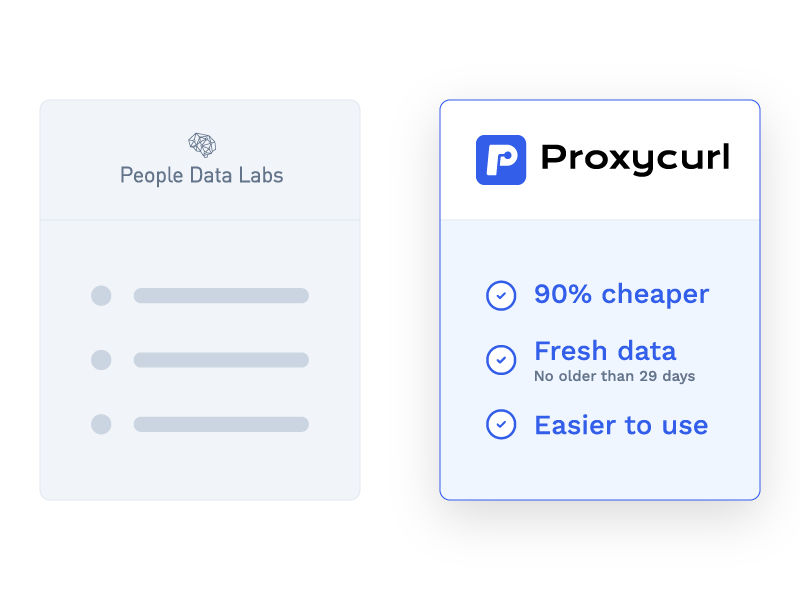
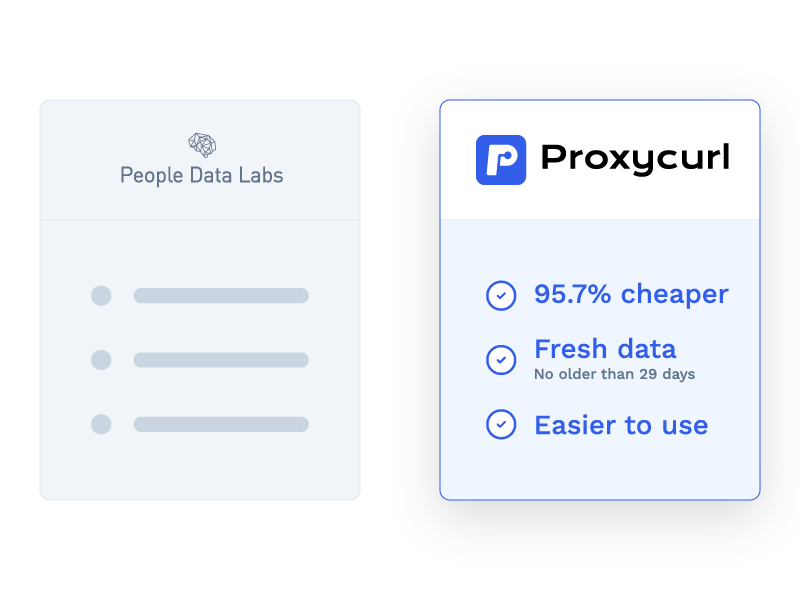
updates

Changed region(s): [[0.6562, 0.57, 0.875, 0.66], [0.6875, 0.45, 0.9062, 0.51]]

diff --git a/solution-PeopleDataLabs.html b/solution-PeopleDataLabs.html
@@ -310,11 +310,15 @@
 
             <!-- Heading -->
             <h1 class="font-weight-bold display-3">
-              PeopleDataLabs is great if you like <span class="text-danger">paying a lot a premium for stale data</span>
+              PeopleDataLabs is great! (<span class="text-danger">if you like paying a lot a premium for stale data</span>)
             </h1>
 
             <p class="text-gray-700 lead">
               Proxycurl is a robust alternative to PDL that is 95.7% cheaper, with fresher data, much is much easier to use.
+            </p>
+
+            <p class="text-success font-weight-bold">
+              Write RegEx instead of ElasticSearch queries
             </p>
 
             <a class="btn btn-primary text-white shadow-light-lg lift mr-md-2 mt-4"data-toggle="modal" data-target="#moreModal">
@@ -388,10 +392,14 @@
                   <div class="col-12 col-md-5">
                     <div class="card border-bottom border-primary shadow-light">
                       <div class="card-body">
-                        <p class="mb-0 font-weight-bold">
-                          <svg class="mr-md-2 mb-1" id="a" width="24" height="24" viewBox="0 0 24 24"><path d="m12,12c-2.7614,0-5-2.2386-5-5s2.2386-5,5-5,5,2.2386,5,5-2.2386,5-5,5ZM3,20v1c0,.5522.4477,1,1,1h16c.5523,0,1-.4478,1-1v-1c0-2.2092-1.7908-4-4-4H7c-2.2092,0-4,1.7908-4,4Z"/></svg>
-                          Proxycurl's Person Profile Endpoint
-                        </p>
+
+                        <a class="text-primary" href="https://nubela.co/proxycurl/docs#people-api-person-profile-endpoint" target="_blank">
+                          <p class="mb-0 font-weight-bold">
+                            <svg class="mr-md-2 mb-1" id="a" width="24" height="24" viewBox="0 0 24 24"><path d="m12,12c-2.7614,0-5-2.2386-5-5s2.2386-5,5-5,5,2.2386,5,5-2.2386,5-5,5ZM3,20v1c0,.5522.4477,1,1,1h16c.5523,0,1-.4478,1-1v-1c0-2.2092-1.7908-4-4-4H7c-2.2092,0-4,1.7908-4,4Z" fill="#335eea"/></svg>
+                            Proxycurl's Person Profile Endpoint
+                          </p>
+                        </a>
+
                       </div>
                     </div>
                   </div>
@@ -429,10 +437,14 @@
                   <div class="col-12 col-md-5">
                     <div class="card border-bottom border-primary shadow-light">
                       <div class="card-body">
-                        <p class="mb-0 font-weight-bold">
-                          <svg class="mr-md-2 mb-1" id="a" width="24" height="24" viewBox="0 0 24 24"><path d="m21.73866,19.21486l-4.11455-4.11449c-.27477-.27477-.35645-.69996-.17301-1.04259.85643-1.5999,1.20428-3.51002.79867-5.52257-.66195-3.28486-3.36137-5.88479-6.6687-6.42334C5.98709,1.20099,1.20127,5.98665,2.1118,11.58047c.53833,3.30733,3.13848,6.00669,6.42329,6.66859,2.0125.40555,3.92262.05793,5.52252-.79834.34263-.18333.76771-.10165,1.04248.17312l4.11494,4.11483c.34846.34846.91347.34846,1.26193-.00006l1.26176-1.26199c.3484-.34846.3484-.91336-.00006-1.26176Zm-11.52932-4.36601c-2.55837,0-4.64012-2.0813-4.64012-4.63967s2.08174-4.64006,4.64012-4.64006,4.64012,2.08174,4.64012,4.64006-2.08174,4.63967-4.64012,4.63967Z"/></svg>
-                          Proxycurl's Person Search Endpooint
-                        </p>
+
+                        <a class="text-primary" href="https://nubela.co/proxycurl/docs#search-api-person-search-endpoint" target="_blank">
+                          <p class="mb-0 font-weight-bold">
+                            <svg class="mr-md-2 mb-1" id="a" width="24" height="24" viewBox="0 0 24 24"><path d="m21.73866,19.21486l-4.11455-4.11449c-.27477-.27477-.35645-.69996-.17301-1.04259.85643-1.5999,1.20428-3.51002.79867-5.52257-.66195-3.28486-3.36137-5.88479-6.6687-6.42334C5.98709,1.20099,1.20127,5.98665,2.1118,11.58047c.53833,3.30733,3.13848,6.00669,6.42329,6.66859,2.0125.40555,3.92262.05793,5.52252-.79834.34263-.18333.76771-.10165,1.04248.17312l4.11494,4.11483c.34846.34846.91347.34846,1.26193-.00006l1.26176-1.26199c.3484-.34846.3484-.91336-.00006-1.26176Zm-11.52932-4.36601c-2.55837,0-4.64012-2.0813-4.64012-4.63967s2.08174-4.64006,4.64012-4.64006,4.64012,2.08174,4.64012,4.64006-2.08174,4.63967-4.64012,4.63967Z" fill="#335eea"/></svg>
+                            Proxycurl's Person Search Endpooint
+                          </p>
+                        </a>
+
                       </div>
                     </div>
                   </div>
@@ -470,18 +482,28 @@
                   <div class="col-12 col-md-5">
                     <div class="card border-bottom border-primary shadow-light">
                       <div class="card-body">
-                        <p class="mb-0 font-weight-bold">
-                          <svg class="mr-md-2 mb-1" id="a" width="24" height="24" viewBox="0 0 24 24"><path d="m22,19V5c0-1.1046-.8954-2-2-2H4c-1.1046,0-2,.8954-2,2v14c0,1.1046.8954,2,2,2h16c1.1046,0,2-.8954,2-2Zm-10-4.3311c-.5342,0-1.0674-.1436-1.543-.4287l-6.457-3.8741v-2.3323l7.4854,4.4915c.3164.1895.7119.1895,1.0303,0l7.4844-4.4915v2.3324l-6.4561,3.8739c-.4766.2852-1.0107.4287-1.5439.4287Z"/></svg>
-                          Reverse Work Email Lookup Endpoint
-                        </p>
-                        <p class="mb-0 font-weight-bold">
-                          <svg class="mr-md-2 mb-1" id="a" width="24" height="24" viewBox="0 0 24 24"><path d="m12,12c-2.7614,0-5-2.2386-5-5s2.2386-5,5-5,5,2.2386,5,5-2.2386,5-5,5ZM3,20v1c0,.5522.4477,1,1,1h16c.5523,0,1-.4478,1-1v-1c0-2.2092-1.7908-4-4-4H7c-2.2092,0-4,1.7908-4,4Z"/></svg>
-                          Person Lookup Endpoint
-                        </p>
-                        <p class="mb-0 font-weight-bold">
-                          <svg class="mr-md-2 mb-1" id="a" width="24" height="24" viewBox="0 0 24 24"><path d="m20,7.5h-2v-2c0-1.6543-1.3457-3-3-3h-6c-1.6543,0-3,1.3457-3,3v2h-2c-1.10455,0-2,.89539-2,2v10c0,1.10455.89545,2,2,2h16c1.10455,0,2-.89545,2-2v-10c0-1.10461-.89545-2-2-2Zm-4,0h-8v-2c0-.55127.44873-1,1-1h6c.55127,0,1,.44873,1,1v2Z"/></svg>
-                          Role Lookup Endpoint
-                        </p>
+
+                        <a class="text-primary" href="https://nubela.co/proxycurl/docs#contact-api-reverse-email-lookup-endpoint" target="_blank">
+                          <p class="mb-0 font-weight-bold">
+                            <svg class="mr-md-2 mb-1" id="a" width="24" height="24" viewBox="0 0 24 24"><path d="m22,19V5c0-1.1046-.8954-2-2-2H4c-1.1046,0-2,.8954-2,2v14c0,1.1046.8954,2,2,2h16c1.1046,0,2-.8954,2-2Zm-10-4.3311c-.5342,0-1.0674-.1436-1.543-.4287l-6.457-3.8741v-2.3323l7.4854,4.4915c.3164.1895.7119.1895,1.0303,0l7.4844-4.4915v2.3324l-6.4561,3.8739c-.4766.2852-1.0107.4287-1.5439.4287Z" fill="#335eea"/></svg>
+                            Reverse Work Email Lookup Endpoint
+                          </p>
+                        </a>
+
+                        <a class="text-primary" href="https://nubela.co/proxycurl/docs#people-api-person-lookup-endpoint" target="_blank">
+                          <p class="mb-0 font-weight-bold">
+                            <svg class="mr-md-2 mb-1" id="a" width="24" height="24" viewBox="0 0 24 24"><path d="m12,12c-2.7614,0-5-2.2386-5-5s2.2386-5,5-5,5,2.2386,5,5-2.2386,5-5,5ZM3,20v1c0,.5522.4477,1,1,1h16c.5523,0,1-.4478,1-1v-1c0-2.2092-1.7908-4-4-4H7c-2.2092,0-4,1.7908-4,4Z" fill="#335eea"/></svg>
+                            Person Lookup Endpoint
+                          </p>
+                        </a>
+
+                        <a class="text-primary" href="https://nubela.co/proxycurl/docs#people-api-role-lookup-endpoint" target="_blank">
+                          <p class="mb-0 font-weight-bold">
+                            <svg class="mr-md-2 mb-1" id="a" width="24" height="24" viewBox="0 0 24 24"><path d="m20,7.5h-2v-2c0-1.6543-1.3457-3-3-3h-6c-1.6543,0-3,1.3457-3,3v2h-2c-1.10455,0-2,.89539-2,2v10c0,1.10455.89545,2,2,2h16c1.10455,0,2-.89545,2-2v-10c0-1.10461-.89545-2-2-2Zm-4,0h-8v-2c0-.55127.44873-1,1-1h6c.55127,0,1,.44873,1,1v2Z" fill="#335eea"/></svg>
+                            Role Lookup Endpoint
+                          </p>                          
+                        </a>
+
                       </div>
                     </div>
                   </div>
@@ -519,10 +541,14 @@
                   <div class="col-12 col-md-5">
                     <div class="card border-bottom border-primary shadow-light">
                       <div class="card-body">
-                        <p class="mb-0 font-weight-bold">
-                          <svg class="mr-md-2 mb-1" id="a" width="24" height="24" viewBox="0 0 24 24"><path d="m20.66046,16.2196c-1.01105.29443-2.89124.7804-4.28546.7804-3,0-5-2-8-2-1.91064,0-3.40894.40424-4.25.69879v6.30121c0,.41406-.33594.75-.75.75s-.75-.33594-.75-.75V2c0-.41406.33594-.75.75-.75s.75.33594.75.75v1.69879c.84106-.29456,2.33936-.69879,4.25-.69879,3,0,5,2,8,2,1.43121,0,3.37451-.51208,4.36407-.80341.32037-.09424.63593.14697.63593.4809v10.58356c0,.44342-.28876.83466-.71454.95856Z"/></svg>
-                          Proxycurl's Company Profile Endpoint
-                        </p>
+
+                        <a class="text-primary" href="https://nubela.co/proxycurl/docs#company-api-company-profile-endpoint" target="_blank">
+                          <p class="mb-0 font-weight-bold">
+                            <svg class="mr-md-2 mb-1" id="a" width="24" height="24" viewBox="0 0 24 24"><path d="m20.66046,16.2196c-1.01105.29443-2.89124.7804-4.28546.7804-3,0-5-2-8-2-1.91064,0-3.40894.40424-4.25.69879v6.30121c0,.41406-.33594.75-.75.75s-.75-.33594-.75-.75V2c0-.41406.33594-.75.75-.75s.75.33594.75.75v1.69879c.84106-.29456,2.33936-.69879,4.25-.69879,3,0,5,2,8,2,1.43121,0,3.37451-.51208,4.36407-.80341.32037-.09424.63593.14697.63593.4809v10.58356c0,.44342-.28876.83466-.71454.95856Z" fill="#335eea"/></svg>
+                            Proxycurl's Company Profile Endpoint
+                          </p>
+                        </a>
+
                       </div>
                     </div>
                   </div>
@@ -560,10 +586,14 @@
                   <div class="col-12 col-md-5">
                     <div class="card border-bottom border-primary shadow-light">
                       <div class="card-body">
-                        <p class="mb-0 font-weight-bold">
-                          <svg class="mr-md-2 mb-1" id="a" width="24" height="24" viewBox="0 0 24 24"><path d="m20,7.79236v-2.79236c0-1.65686-3.58173-3-8-3s-8,1.34314-8,3v2.79236c.59277.44537,3.38721,1.20764,8,1.20764s7.40723-.76227,8-1.20764Zm-13.5-.79236c-.27612,0-.5-.22388-.5-.5,0-.27618.22388-.5.5-.5s.5.22382.5.5c0,.27612-.22388.5-.5.5Zm-2.5,6.79236c.59277.44537,3.38721,1.20764,8,1.20764s7.40723-.76227,8-1.20764v-3.80975c-2.43536.91565-6.41943,1.0174-8,1.0174s-5.56464-.10175-8-1.0174v3.80975Zm2.5-1.79236c.27612,0,.5.22382.5.5,0,.27612-.22388.5-.5.5s-.5-.22388-.5-.5c0-.27618.22388-.5.5-.5Zm-2.5,8c0,1.10455,3.58173,2,8,2s8-.89545,8-2v-4.0174c-2.43536.91565-6.41943,1.0174-8,1.0174s-5.56464-.10175-8-1.0174v4.0174Zm2.5-2c.27612,0,.5.22382.5.5,0,.27612-.22388.5-.5.5s-.5-.22388-.5-.5c0-.27618.22388-.5.5-.5Z"/></svg>
-                          LinkDB
-                        </p>
+
+                        <a class="text-primary" href="https://nubela.co/proxycurl/linkdb" target="_blank">
+                          <p class="mb-0 font-weight-bold">
+                            <svg class="mr-md-2 mb-1" id="a" width="24" height="24" viewBox="0 0 24 24"><path d="m20,7.79236v-2.79236c0-1.65686-3.58173-3-8-3s-8,1.34314-8,3v2.79236c.59277.44537,3.38721,1.20764,8,1.20764s7.40723-.76227,8-1.20764Zm-13.5-.79236c-.27612,0-.5-.22388-.5-.5,0-.27618.22388-.5.5-.5s.5.22382.5.5c0,.27612-.22388.5-.5.5Zm-2.5,6.79236c.59277.44537,3.38721,1.20764,8,1.20764s7.40723-.76227,8-1.20764v-3.80975c-2.43536.91565-6.41943,1.0174-8,1.0174s-5.56464-.10175-8-1.0174v3.80975Zm2.5-1.79236c.27612,0,.5.22382.5.5,0,.27612-.22388.5-.5.5s-.5-.22388-.5-.5c0-.27618.22388-.5.5-.5Zm-2.5,8c0,1.10455,3.58173,2,8,2s8-.89545,8-2v-4.0174c-2.43536.91565-6.41943,1.0174-8,1.0174s-5.56464-.10175-8-1.0174v4.0174Zm2.5-2c.27612,0,.5.22382.5.5,0,.27612-.22388.5-.5.5s-.5-.22388-.5-.5c0-.27618.22388-.5.5-.5Z" fill="#335eea"/></svg>
+                            LinkDB
+                          </p>
+                        </a>
+
                       </div>
                     </div>
                   </div>
@@ -589,13 +619,18 @@
 
                 <div class="card shadow-light">
                   <div class="card-body">
+
                     <span class="badge text-white py-2 px-4 bg-primary rounded-pill badge-float badge-float-outside">
                       Proxycurl Only
                     </span>
-                    <p class="mb-0 lead font-weight-bold">
-                      <svg class="mr-md-2 mb-1" id="a" width="32" height="32" viewBox="0 0 24 24"><path d="m15.6968,12.4905l-2.8295,1.4148c-.8491.4245-1.5375,1.113-1.962,1.962l-1.4148,2.8295c-.2021.4042-.7789.4042-.981,0l-1.4148-2.8295c-.4245-.8491-1.113-1.5375-1.962-1.962l-2.8295-1.4148c-.4042-.2021-.4042-.7789,0-.981l2.8295-1.4148c.8491-.4246,1.5375-1.113,1.962-1.9621l1.4148-2.8295c.2021-.4042.7789-.4042.981,0l1.4148,2.8295c.4245.8491,1.113,1.5375,1.962,1.9621l2.8295,1.4148c.4042.2021.4042.7789,0,.981Zm6.1732,6.2993l-1.2127-.6063c-.3639-.182-.6589-.477-.8409-.8409l-.6063-1.2126c-.0866-.1732-.3338-.1732-.4204,0l-.6063,1.2126c-.1819.3639-.477.6589-.8409.8409l-1.2127.6063c-.1732.0866-.1732.3338,0,.4204l1.2127.6063c.3639.1819.6589.477.8409.8409l.6063,1.2126c.0866.1732.3338.1732.4204,0l.6063-1.2126c.1819-.3639.477-.6589.8409-.8409l1.2127-.6063c.1732-.0866.1732-.3338,0-.4204Zm0-14l-1.2127-.6063c-.3639-.182-.6589-.477-.8409-.8409l-.6063-1.2126c-.0866-.1732-.3338-.1732-.4204,0l-.6063,1.2126c-.1819.3639-.477.6589-.8409.8409l-1.2127.6063c-.1732.0866-.1732.3338,0,.4204l1.2127.6063c.3639.1819.6589.477.8409.8409l.6063,1.2126c.0866.1732.3338.1732.4204,0l.6063-1.2126c.1819-.3639.477-.6589.8409-.8409l1.2127-.6063c.1732-.0866.1732-.3338,0-.4204Z" fill="#335eea"/></svg>
-                      Proxycurl's Company Lookup Endpoint
-                    </p>
+
+                    <a class="text-primary" href="https://nubela.co/proxycurl/docs#company-api-company-lookup-endpoint" target="_blank">
+                      <p class="mb-0 lead font-weight-bold">
+                        <svg class="mr-md-2 mb-1" id="a" width="32" height="32" viewBox="0 0 24 24"><path d="m15.6968,12.4905l-2.8295,1.4148c-.8491.4245-1.5375,1.113-1.962,1.962l-1.4148,2.8295c-.2021.4042-.7789.4042-.981,0l-1.4148-2.8295c-.4245-.8491-1.113-1.5375-1.962-1.962l-2.8295-1.4148c-.4042-.2021-.4042-.7789,0-.981l2.8295-1.4148c.8491-.4246,1.5375-1.113,1.962-1.9621l1.4148-2.8295c.2021-.4042.7789-.4042.981,0l1.4148,2.8295c.4245.8491,1.113,1.5375,1.962,1.9621l2.8295,1.4148c.4042.2021.4042.7789,0,.981Zm6.1732,6.2993l-1.2127-.6063c-.3639-.182-.6589-.477-.8409-.8409l-.6063-1.2126c-.0866-.1732-.3338-.1732-.4204,0l-.6063,1.2126c-.1819.3639-.477.6589-.8409.8409l-1.2127.6063c-.1732.0866-.1732.3338,0,.4204l1.2127.6063c.3639.1819.6589.477.8409.8409l.6063,1.2126c.0866.1732.3338.1732.4204,0l.6063-1.2126c.1819-.3639.477-.6589.8409-.8409l1.2127-.6063c.1732-.0866.1732-.3338,0-.4204Zm0-14l-1.2127-.6063c-.3639-.182-.6589-.477-.8409-.8409l-.6063-1.2126c-.0866-.1732-.3338-.1732-.4204,0l-.6063,1.2126c-.1819.3639-.477.6589-.8409.8409l-1.2127.6063c-.1732.0866-.1732.3338,0,.4204l1.2127.6063c.3639.1819.6589.477.8409.8409l.6063,1.2126c.0866.1732.3338.1732.4204,0l.6063-1.2126c.1819-.3639.477-.6589.8409-.8409l1.2127-.6063c.1732-.0866.1732-.3338,0-.4204Z" fill="#335eea"/></svg>
+                        Proxycurl's Company Lookup Endpoint
+                      </p>
+                    </a>
+
                   </div>
                 </div>
 
@@ -605,13 +640,18 @@
 
                 <div class="card shadow-light">
                   <div class="card-body">
+
                     <span class="badge text-white py-2 px-4 bg-primary rounded-pill badge-float badge-float-outside">
                       Proxycurl Only
                     </span>
-                    <p class="mb-0 lead font-weight-bold">
-                      <svg class="mr-md-2 mb-1" id="a" width="32" height="32" viewBox="0 0 24 24"><path d="m15.6968,12.4905l-2.8295,1.4148c-.8491.4245-1.5375,1.113-1.962,1.962l-1.4148,2.8295c-.2021.4042-.7789.4042-.981,0l-1.4148-2.8295c-.4245-.8491-1.113-1.5375-1.962-1.962l-2.8295-1.4148c-.4042-.2021-.4042-.7789,0-.981l2.8295-1.4148c.8491-.4246,1.5375-1.113,1.962-1.9621l1.4148-2.8295c.2021-.4042.7789-.4042.981,0l1.4148,2.8295c.4245.8491,1.113,1.5375,1.962,1.9621l2.8295,1.4148c.4042.2021.4042.7789,0,.981Zm6.1732,6.2993l-1.2127-.6063c-.3639-.182-.6589-.477-.8409-.8409l-.6063-1.2126c-.0866-.1732-.3338-.1732-.4204,0l-.6063,1.2126c-.1819.3639-.477.6589-.8409.8409l-1.2127.6063c-.1732.0866-.1732.3338,0,.4204l1.2127.6063c.3639.1819.6589.477.8409.8409l.6063,1.2126c.0866.1732.3338.1732.4204,0l.6063-1.2126c.1819-.3639.477-.6589.8409-.8409l1.2127-.6063c.1732-.0866.1732-.3338,0-.4204Zm0-14l-1.2127-.6063c-.3639-.182-.6589-.477-.8409-.8409l-.6063-1.2126c-.0866-.1732-.3338-.1732-.4204,0l-.6063,1.2126c-.1819.3639-.477.6589-.8409.8409l-1.2127.6063c-.1732.0866-.1732.3338,0,.4204l1.2127.6063c.3639.1819.6589.477.8409.8409l.6063,1.2126c.0866.1732.3338.1732.4204,0l.6063-1.2126c.1819-.3639.477-.6589.8409-.8409l1.2127-.6063c.1732-.0866.1732-.3338,0-.4204Z" fill="#335eea"/></svg>
-                      Proxycurl's Job Search Endpoint
-                    </p>
+
+                    <a class="text-primary" href="https://nubela.co/proxycurl/docs#jobs-api-job-search-endpoint" target="_blank">
+                      <p class="mb-0 lead font-weight-bold">
+                        <svg class="mr-md-2 mb-1" id="a" width="32" height="32" viewBox="0 0 24 24"><path d="m15.6968,12.4905l-2.8295,1.4148c-.8491.4245-1.5375,1.113-1.962,1.962l-1.4148,2.8295c-.2021.4042-.7789.4042-.981,0l-1.4148-2.8295c-.4245-.8491-1.113-1.5375-1.962-1.962l-2.8295-1.4148c-.4042-.2021-.4042-.7789,0-.981l2.8295-1.4148c.8491-.4246,1.5375-1.113,1.962-1.9621l1.4148-2.8295c.2021-.4042.7789-.4042.981,0l1.4148,2.8295c.4245.8491,1.113,1.5375,1.962,1.9621l2.8295,1.4148c.4042.2021.4042.7789,0,.981Zm6.1732,6.2993l-1.2127-.6063c-.3639-.182-.6589-.477-.8409-.8409l-.6063-1.2126c-.0866-.1732-.3338-.1732-.4204,0l-.6063,1.2126c-.1819.3639-.477.6589-.8409.8409l-1.2127.6063c-.1732.0866-.1732.3338,0,.4204l1.2127.6063c.3639.1819.6589.477.8409.8409l.6063,1.2126c.0866.1732.3338.1732.4204,0l.6063-1.2126c.1819-.3639.477-.6589.8409-.8409l1.2127-.6063c.1732-.0866.1732-.3338,0-.4204Zm0-14l-1.2127-.6063c-.3639-.182-.6589-.477-.8409-.8409l-.6063-1.2126c-.0866-.1732-.3338-.1732-.4204,0l-.6063,1.2126c-.1819.3639-.477.6589-.8409.8409l-1.2127.6063c-.1732.0866-.1732.3338,0,.4204l1.2127.6063c.3639.1819.6589.477.8409.8409l.6063,1.2126c.0866.1732.3338.1732.4204,0l.6063-1.2126c.1819-.3639.477-.6589.8409-.8409l1.2127-.6063c.1732-.0866.1732-.3338,0-.4204Z" fill="#335eea"/></svg>
+                        Proxycurl's Job Search Endpoint
+                      </p>
+                    </a>
+
                   </div>
                 </div>
 
@@ -621,13 +661,18 @@
 
                 <div class="card shadow-light">
                   <div class="card-body">
+
                     <span class="badge text-white py-2 px-4 bg-primary rounded-pill badge-float badge-float-outside">
                       Proxycurl Only
                     </span>
-                    <p class="mb-0 lead font-weight-bold">
-                      <svg class="mr-md-2 mb-1" id="a" width="32" height="32" viewBox="0 0 24 24"><path d="m15.6968,12.4905l-2.8295,1.4148c-.8491.4245-1.5375,1.113-1.962,1.962l-1.4148,2.8295c-.2021.4042-.7789.4042-.981,0l-1.4148-2.8295c-.4245-.8491-1.113-1.5375-1.962-1.962l-2.8295-1.4148c-.4042-.2021-.4042-.7789,0-.981l2.8295-1.4148c.8491-.4246,1.5375-1.113,1.962-1.9621l1.4148-2.8295c.2021-.4042.7789-.4042.981,0l1.4148,2.8295c.4245.8491,1.113,1.5375,1.962,1.9621l2.8295,1.4148c.4042.2021.4042.7789,0,.981Zm6.1732,6.2993l-1.2127-.6063c-.3639-.182-.6589-.477-.8409-.8409l-.6063-1.2126c-.0866-.1732-.3338-.1732-.4204,0l-.6063,1.2126c-.1819.3639-.477.6589-.8409.8409l-1.2127.6063c-.1732.0866-.1732.3338,0,.4204l1.2127.6063c.3639.1819.6589.477.8409.8409l.6063,1.2126c.0866.1732.3338.1732.4204,0l.6063-1.2126c.1819-.3639.477-.6589.8409-.8409l1.2127-.6063c.1732-.0866.1732-.3338,0-.4204Zm0-14l-1.2127-.6063c-.3639-.182-.6589-.477-.8409-.8409l-.6063-1.2126c-.0866-.1732-.3338-.1732-.4204,0l-.6063,1.2126c-.1819.3639-.477.6589-.8409.8409l-1.2127.6063c-.1732.0866-.1732.3338,0,.4204l1.2127.6063c.3639.1819.6589.477.8409.8409l.6063,1.2126c.0866.1732.3338.1732.4204,0l.6063-1.2126c.1819-.3639.477-.6589.8409-.8409l1.2127-.6063c.1732-.0866.1732-.3338,0-.4204Z" fill="#335eea"/></svg>
-                      Proxycurl Student Listing Endpoint
-                    </p>
+
+                    <a class="text-primary" href="https://nubela.co/proxycurl/docs#school-api-student-listing-endpoint" target="">
+                      <p class="mb-0 lead font-weight-bold">
+                        <svg class="mr-md-2 mb-1" id="a" width="32" height="32" viewBox="0 0 24 24"><path d="m15.6968,12.4905l-2.8295,1.4148c-.8491.4245-1.5375,1.113-1.962,1.962l-1.4148,2.8295c-.2021.4042-.7789.4042-.981,0l-1.4148-2.8295c-.4245-.8491-1.113-1.5375-1.962-1.962l-2.8295-1.4148c-.4042-.2021-.4042-.7789,0-.981l2.8295-1.4148c.8491-.4246,1.5375-1.113,1.962-1.9621l1.4148-2.8295c.2021-.4042.7789-.4042.981,0l1.4148,2.8295c.4245.8491,1.113,1.5375,1.962,1.9621l2.8295,1.4148c.4042.2021.4042.7789,0,.981Zm6.1732,6.2993l-1.2127-.6063c-.3639-.182-.6589-.477-.8409-.8409l-.6063-1.2126c-.0866-.1732-.3338-.1732-.4204,0l-.6063,1.2126c-.1819.3639-.477.6589-.8409.8409l-1.2127.6063c-.1732.0866-.1732.3338,0,.4204l1.2127.6063c.3639.1819.6589.477.8409.8409l.6063,1.2126c.0866.1732.3338.1732.4204,0l.6063-1.2126c.1819-.3639.477-.6589.8409-.8409l1.2127-.6063c.1732-.0866.1732-.3338,0-.4204Zm0-14l-1.2127-.6063c-.3639-.182-.6589-.477-.8409-.8409l-.6063-1.2126c-.0866-.1732-.3338-.1732-.4204,0l-.6063,1.2126c-.1819.3639-.477.6589-.8409.8409l-1.2127.6063c-.1732.0866-.1732.3338,0,.4204l1.2127.6063c.3639.1819.6589.477.8409.8409l.6063,1.2126c.0866.1732.3338.1732.4204,0l.6063-1.2126c.1819-.3639.477-.6589.8409-.8409l1.2127-.6063c.1732-.0866.1732-.3338,0-.4204Z" fill="#335eea"/></svg>
+                        Proxycurl Student Listing Endpoint
+                      </p>
+                    </a>
+
                   </div>
                 </div>
 
@@ -637,13 +682,18 @@
 
                 <div class="card shadow-light">
                   <div class="card-body">
+
                     <span class="badge text-white py-2 px-4 bg-primary rounded-pill badge-float badge-float-outside">
                       Proxycurl Only
                     </span>
-                    <p class="mb-0 lead font-weight-bold">
-                      <svg class="mr-md-2 mb-1" id="a" width="32" height="32" viewBox="0 0 24 24"><path d="m15.6968,12.4905l-2.8295,1.4148c-.8491.4245-1.5375,1.113-1.962,1.962l-1.4148,2.8295c-.2021.4042-.7789.4042-.981,0l-1.4148-2.8295c-.4245-.8491-1.113-1.5375-1.962-1.962l-2.8295-1.4148c-.4042-.2021-.4042-.7789,0-.981l2.8295-1.4148c.8491-.4246,1.5375-1.113,1.962-1.9621l1.4148-2.8295c.2021-.4042.7789-.4042.981,0l1.4148,2.8295c.4245.8491,1.113,1.5375,1.962,1.9621l2.8295,1.4148c.4042.2021.4042.7789,0,.981Zm6.1732,6.2993l-1.2127-.6063c-.3639-.182-.6589-.477-.8409-.8409l-.6063-1.2126c-.0866-.1732-.3338-.1732-.4204,0l-.6063,1.2126c-.1819.3639-.477.6589-.8409.8409l-1.2127.6063c-.1732.0866-.1732.3338,0,.4204l1.2127.6063c.3639.1819.6589.477.8409.8409l.6063,1.2126c.0866.1732.3338.1732.4204,0l.6063-1.2126c.1819-.3639.477-.6589.8409-.8409l1.2127-.6063c.1732-.0866.1732-.3338,0-.4204Zm0-14l-1.2127-.6063c-.3639-.182-.6589-.477-.8409-.8409l-.6063-1.2126c-.0866-.1732-.3338-.1732-.4204,0l-.6063,1.2126c-.1819.3639-.477.6589-.8409.8409l-1.2127.6063c-.1732.0866-.1732.3338,0,.4204l1.2127.6063c.3639.1819.6589.477.8409.8409l.6063,1.2126c.0866.1732.3338.1732.4204,0l.6063-1.2126c.1819-.3639.477-.6589.8409-.8409l1.2127-.6063c.1732-.0866.1732-.3338,0-.4204Z" fill="#335eea"/></svg>
-                      Proxycurl School Profile Endpoint
-                    </p>
+
+                    <a class="text-primary" href="https://nubela.co/proxycurl/docs#school-api-school-profile-endpoint" target="">
+                      <p class="mb-0 lead font-weight-bold">
+                        <svg class="mr-md-2 mb-1" id="a" width="32" height="32" viewBox="0 0 24 24"><path d="m15.6968,12.4905l-2.8295,1.4148c-.8491.4245-1.5375,1.113-1.962,1.962l-1.4148,2.8295c-.2021.4042-.7789.4042-.981,0l-1.4148-2.8295c-.4245-.8491-1.113-1.5375-1.962-1.962l-2.8295-1.4148c-.4042-.2021-.4042-.7789,0-.981l2.8295-1.4148c.8491-.4246,1.5375-1.113,1.962-1.9621l1.4148-2.8295c.2021-.4042.7789-.4042.981,0l1.4148,2.8295c.4245.8491,1.113,1.5375,1.962,1.9621l2.8295,1.4148c.4042.2021.4042.7789,0,.981Zm6.1732,6.2993l-1.2127-.6063c-.3639-.182-.6589-.477-.8409-.8409l-.6063-1.2126c-.0866-.1732-.3338-.1732-.4204,0l-.6063,1.2126c-.1819.3639-.477.6589-.8409.8409l-1.2127.6063c-.1732.0866-.1732.3338,0,.4204l1.2127.6063c.3639.1819.6589.477.8409.8409l.6063,1.2126c.0866.1732.3338.1732.4204,0l.6063-1.2126c.1819-.3639.477-.6589.8409-.8409l1.2127-.6063c.1732-.0866.1732-.3338,0-.4204Zm0-14l-1.2127-.6063c-.3639-.182-.6589-.477-.8409-.8409l-.6063-1.2126c-.0866-.1732-.3338-.1732-.4204,0l-.6063,1.2126c-.1819.3639-.477.6589-.8409.8409l-1.2127.6063c-.1732.0866-.1732.3338,0,.4204l1.2127.6063c.3639.1819.6589.477.8409.8409l.6063,1.2126c.0866.1732.3338.1732.4204,0l.6063-1.2126c.1819-.3639.477-.6589.8409-.8409l1.2127-.6063c.1732-.0866.1732-.3338,0-.4204Z" fill="#335eea"/></svg>
+                        Proxycurl School Profile Endpoint
+                      </p>
+                    </a>
+
                   </div>
                 </div>
 
@@ -653,13 +703,18 @@
 
                 <div class="card shadow-light">
                   <div class="card-body">
+
                     <span class="badge text-white py-2 px-4 bg-primary rounded-pill badge-float badge-float-outside">
                       Proxycurl Only
                     </span>
-                    <p class="mb-0 lead font-weight-bold">
-                      <svg class="mr-md-2 mb-1" id="a" width="32" height="32" viewBox="0 0 24 24"><path d="m15.6968,12.4905l-2.8295,1.4148c-.8491.4245-1.5375,1.113-1.962,1.962l-1.4148,2.8295c-.2021.4042-.7789.4042-.981,0l-1.4148-2.8295c-.4245-.8491-1.113-1.5375-1.962-1.962l-2.8295-1.4148c-.4042-.2021-.4042-.7789,0-.981l2.8295-1.4148c.8491-.4246,1.5375-1.113,1.962-1.9621l1.4148-2.8295c.2021-.4042.7789-.4042.981,0l1.4148,2.8295c.4245.8491,1.113,1.5375,1.962,1.9621l2.8295,1.4148c.4042.2021.4042.7789,0,.981Zm6.1732,6.2993l-1.2127-.6063c-.3639-.182-.6589-.477-.8409-.8409l-.6063-1.2126c-.0866-.1732-.3338-.1732-.4204,0l-.6063,1.2126c-.1819.3639-.477.6589-.8409.8409l-1.2127.6063c-.1732.0866-.1732.3338,0,.4204l1.2127.6063c.3639.1819.6589.477.8409.8409l.6063,1.2126c.0866.1732.3338.1732.4204,0l.6063-1.2126c.1819-.3639.477-.6589.8409-.8409l1.2127-.6063c.1732-.0866.1732-.3338,0-.4204Zm0-14l-1.2127-.6063c-.3639-.182-.6589-.477-.8409-.8409l-.6063-1.2126c-.0866-.1732-.3338-.1732-.4204,0l-.6063,1.2126c-.1819.3639-.477.6589-.8409.8409l-1.2127.6063c-.1732.0866-.1732.3338,0,.4204l1.2127.6063c.3639.1819.6589.477.8409.8409l.6063,1.2126c.0866.1732.3338.1732.4204,0l.6063-1.2126c.1819-.3639.477-.6589.8409-.8409l1.2127-.6063c.1732-.0866.1732-.3338,0-.4204Z" fill="#335eea"/></svg>
-                      Proxycurl Employee Listing Endpoint
-                    </p>
+
+                    <a class="text-primary" href="" target="">
+                      <p class="mb-0 lead font-weight-bold">
+                        <svg class="mr-md-2 mb-1" id="a" width="32" height="32" viewBox="0 0 24 24"><path d="m15.6968,12.4905l-2.8295,1.4148c-.8491.4245-1.5375,1.113-1.962,1.962l-1.4148,2.8295c-.2021.4042-.7789.4042-.981,0l-1.4148-2.8295c-.4245-.8491-1.113-1.5375-1.962-1.962l-2.8295-1.4148c-.4042-.2021-.4042-.7789,0-.981l2.8295-1.4148c.8491-.4246,1.5375-1.113,1.962-1.9621l1.4148-2.8295c.2021-.4042.7789-.4042.981,0l1.4148,2.8295c.4245.8491,1.113,1.5375,1.962,1.9621l2.8295,1.4148c.4042.2021.4042.7789,0,.981Zm6.1732,6.2993l-1.2127-.6063c-.3639-.182-.6589-.477-.8409-.8409l-.6063-1.2126c-.0866-.1732-.3338-.1732-.4204,0l-.6063,1.2126c-.1819.3639-.477.6589-.8409.8409l-1.2127.6063c-.1732.0866-.1732.3338,0,.4204l1.2127.6063c.3639.1819.6589.477.8409.8409l.6063,1.2126c.0866.1732.3338.1732.4204,0l.6063-1.2126c.1819-.3639.477-.6589.8409-.8409l1.2127-.6063c.1732-.0866.1732-.3338,0-.4204Zm0-14l-1.2127-.6063c-.3639-.182-.6589-.477-.8409-.8409l-.6063-1.2126c-.0866-.1732-.3338-.1732-.4204,0l-.6063,1.2126c-.1819.3639-.477.6589-.8409.8409l-1.2127.6063c-.1732.0866-.1732.3338,0,.4204l1.2127.6063c.3639.1819.6589.477.8409.8409l.6063,1.2126c.0866.1732.3338.1732.4204,0l.6063-1.2126c.1819-.3639.477-.6589.8409-.8409l1.2127-.6063c.1732-.0866.1732-.3338,0-.4204Z" fill="#335eea"/></svg>
+                        Proxycurl Employee Listing Endpoint
+                      </p>
+                    </a>
+
                   </div>
                 </div>
 
@@ -683,8 +738,9 @@
 
             <!-- Heading -->
             <h1 class="font-weight-bold display-3">
-              Stop reading from<br>
-              <span class="text-danger">PDL's stale profile database</span>
+              <span class="text-info">Real-time scraping</span><br>
+              VS<br>
+              reading off PDL's profile database
             </h1>
 
             <p class="text-gray-700 lead">
